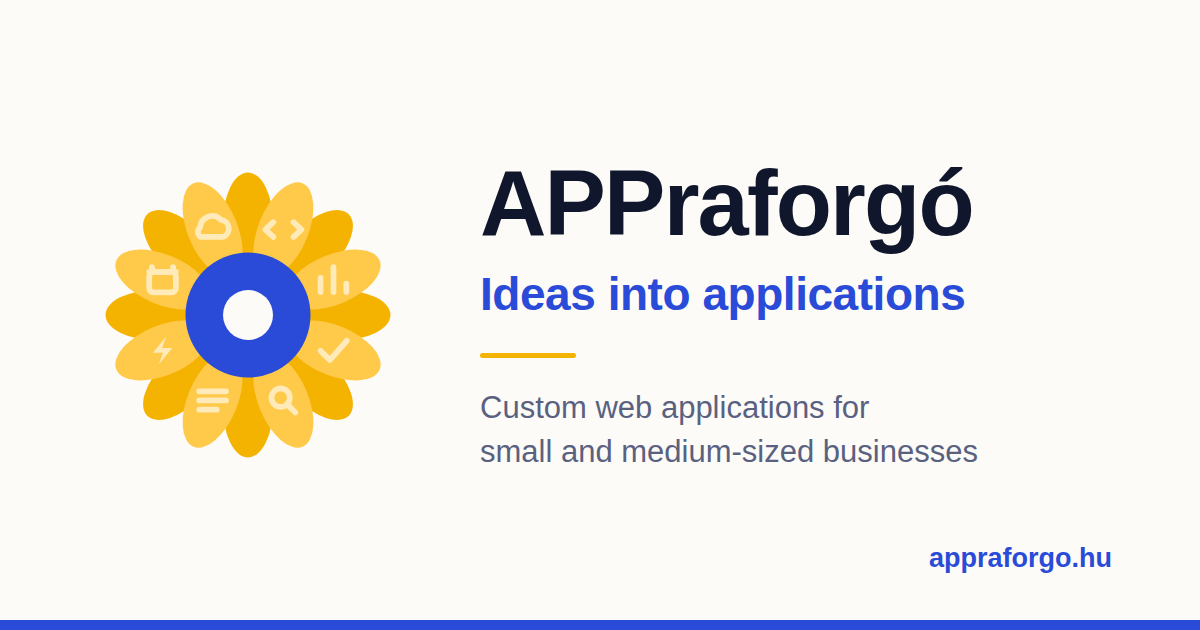
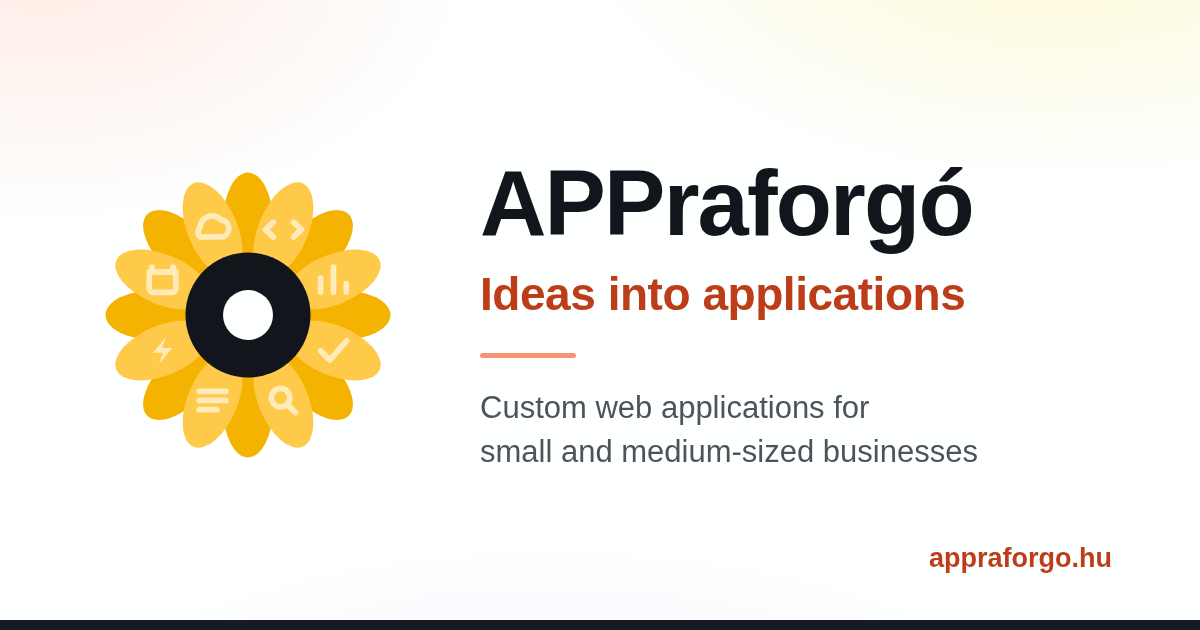
Regenerate the share cards in the new palette
The Open Graph cards render as a standalone page and cannot see
assets/style.css, so their colours are repeated in design/og-image.js and
had to be carried over by hand. The card now mirrors the hero: white
ground with the same three pastel blooms, terracotta slogan and domain,
coral rule. The logo is lifted from assets/logo.svg, so its new disc
followed on its own.

The dark bottom bar stays. It is not decoration: the card is almost
white, and without it the bottom edge would bleed into the light
background of a feed.

Launch Chromium with --disable-lcd-text so the text is antialiased in
greyscale. Sharing platforms rescale the card, and subpixel-antialiased
glyph edges would survive that as coloured fringes. The CSS property for
this, -webkit-font-smoothing, is macOS-only and does nothing on Linux,
which the rendered files confirmed: setting it left them byte-identical.
With the flag, the coloured edge pixels go from 1149 to 0.

Both cards verified as rendered: exactly 1200x630 as the meta tags
promise, every text run at least 5.5:1 against the darkest point of the
gradient beneath it, and no colour from the old palette left.

The files grew from 66 KB to 116 KB because a gradient compresses worse
than flat fills. Only scrapers fetch them, so this costs page visitors
nothing.

Claude-Session: https://claude.ai/code/session_018yLuN5P2eg9m4u9gUJm5CJ

diff --git a/design/og-image.js b/design/og-image.js
@@ -48,12 +48,20 @@ const logo = fs
 
 const cardHtml = (card) => `
 <style>
+  /* A színek az assets/style.css :root blokkját követik. Ha ott változik a
+     paletta, itt is át kell vezetni — a kártya nem hivatkozhat a CSS-re,
+     mert önálló lapként renderelődik. */
   * { margin: 0; padding: 0; box-sizing: border-box; }
   body {
     width: ${WIDTH}px; height: ${HEIGHT}px;
-    background: #FCFBF7;
+    /* Ugyanaz a három pasztell folt, mint az oldal nyitóképén. */
+    background:
+      radial-gradient(760px 420px at 88% -14%, #FEF8D2 0%, transparent 64%),
+      radial-gradient(680px 420px at 4% -6%, #FFECE5 0%, transparent 62%),
+      radial-gradient(820px 360px at 46% 124%, #F5F0FF 0%, transparent 66%),
+      #FEFFFF;
     font-family: 'Liberation Sans', 'DejaVu Sans', Arial, sans-serif;
-    color: #10162B;
+    color: #12161C;
     display: flex; align-items: center; gap: 72px;
     padding: 0 88px;
     overflow: hidden;
@@ -62,16 +70,18 @@ const cardHtml = (card) => `
   .text { flex: 1; }
   h1 { font-size: 92px; font-weight: 700; letter-spacing: -.02em; line-height: 1; }
   .slogan {
-    font-size: 46px; font-weight: 600; color: #2A4BD7;
+    font-size: 46px; font-weight: 600; color: #BC3D17;
     margin-top: 18px; letter-spacing: -.01em;
   }
-  .rule { width: 96px; height: 5px; background: #F5B301; border-radius: 3px; margin: 32px 0 28px; }
-  .desc { font-size: 31px; line-height: 1.4; color: #5A6180; }
+  .rule { width: 96px; height: 5px; background: #F79273; border-radius: 3px; margin: 32px 0 28px; }
+  .desc { font-size: 31px; line-height: 1.4; color: #4E525B; }
   .domain {
     position: absolute; right: 88px; bottom: 56px;
-    font-size: 27px; font-weight: 600; color: #2A4BD7;
+    font-size: 27px; font-weight: 600; color: #BC3D17;
   }
-  .bar { position: absolute; left: 0; right: 0; bottom: 0; height: 10px; background: #2A4BD7; }
+  /* A sötét sáv nem dísz: a kártya majdnem fehér, és a hírfolyamok világos
+     háttere mellett e nélkül elfolyna az alsó széle. */
+  .bar { position: absolute; left: 0; right: 0; bottom: 0; height: 10px; background: #161A22; }
 </style>
 
 <div class="mark">${logo}</div>
@@ -86,7 +96,14 @@ const cardHtml = (card) => `
 `;
 
 (async () => {
-  const browser = await chromium.launch({ executablePath: CHROME });
+  // --disable-lcd-text: alpixeles betűsimítás nélkül, szürkeárnyalatosan.
+  // A kártyát a megosztó felületek átméretezik, és az alpixeles betűélek
+  // színes szegélyként maradnának meg a képben. (A CSS-ben erre való
+  // -webkit-font-smoothing macOS-only, Linuxon nem hat — ezért itt.)
+  const browser = await chromium.launch({
+    executablePath: CHROME,
+    args: ['--disable-lcd-text'],
+  });
   const page = await browser.newPage({
     viewport: { width: WIDTH, height: HEIGHT },
     deviceScaleFactor: 1,

diff --git a/README.md b/README.md
@@ -81,9 +81,13 @@ Két dolog nem a referenciaoldalról jön:
   valódi napraforgó színe is. Visszaállítani egy érték átírása mindkét lapon,
   az `assets/logo.svg`-ben és a `favicon.svg`-ben.
 
-Amihez nem nyúltunk: az `assets/og*.png` közösségi előnézeti képek és a
-`design/logo-variants/` mappa még a régi kék-arany palettát viszik. Az előbbit
-akkor érdemes újragenerálni, ha a megosztott link előnézete számít.
+A megosztási kártyák (`assets/og*.png`) követik a palettát, de **nem
+automatikusan**: önálló lapként renderelődnek, nem látják az `assets/style.css`-t,
+így a színek a `design/og-image.js` `cardHtml` függvényében meg vannak ismételve.
+Palettaváltáskor ott is át kell vezetni, és újrafuttatni a generátort.
+
+Amihez nem nyúltunk: a `design/logo-variants/` mappa még a régi kék-arany
+palettát viszi. Belső összehasonlító anyag, nem kerül ki a lapra.
 
 **Szövegek** — közvetlenül az `index.html`-ben. A szekciók sorrendben:
 hero → *Miben segítünk* → *Hogyan dolgozunk* → *Referenciamunkák* → *Beszéljünk róla* → lábléc.
@@ -214,6 +218,11 @@ node design/og-image.js          # → assets/og.png + assets/og-en.png
 A szövegeket a script tetején, a `CARDS` tömbben találod. A logót az
 `assets/logo.svg`-ből emeli ki, tehát logóváltáskor magától követi, és elhasal,
 ha a szöveg kilógna a vászonból — az angol tipikusan hosszabb, ezért nem árt.
+
+A Chromiumot `--disable-lcd-text` kapcsolóval indítja: alpixeles betűsimítás
+nélkül, szürkeárnyalatosan. A megosztó felületek átméretezik a kártyát, és az
+alpixeles betűélek színes szegélyként maradnának meg a képben. (A CSS-ben erre
+való `-webkit-font-smoothing` macOS-only, Linuxon nem hat — ezért a kapcsoló.)
 
 ⚠ `og:image` **nélkül** a Facebook a lapon talált legnagyobb képet választja —
 esetünkben az egyik referencia-screenshotot. Ezért kell explicit megadni.
